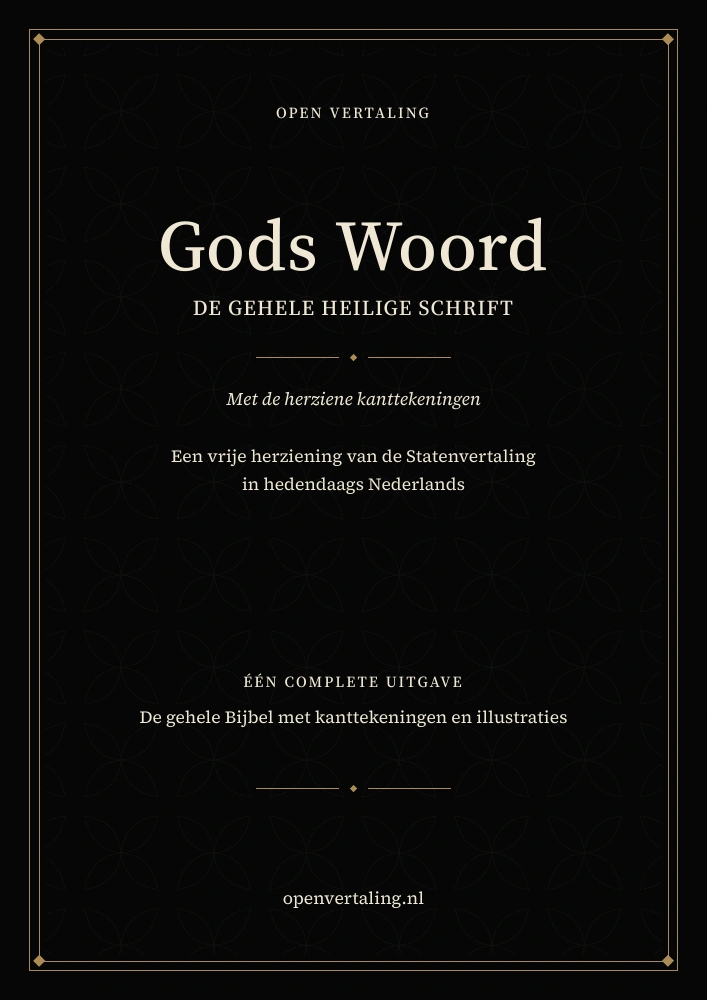
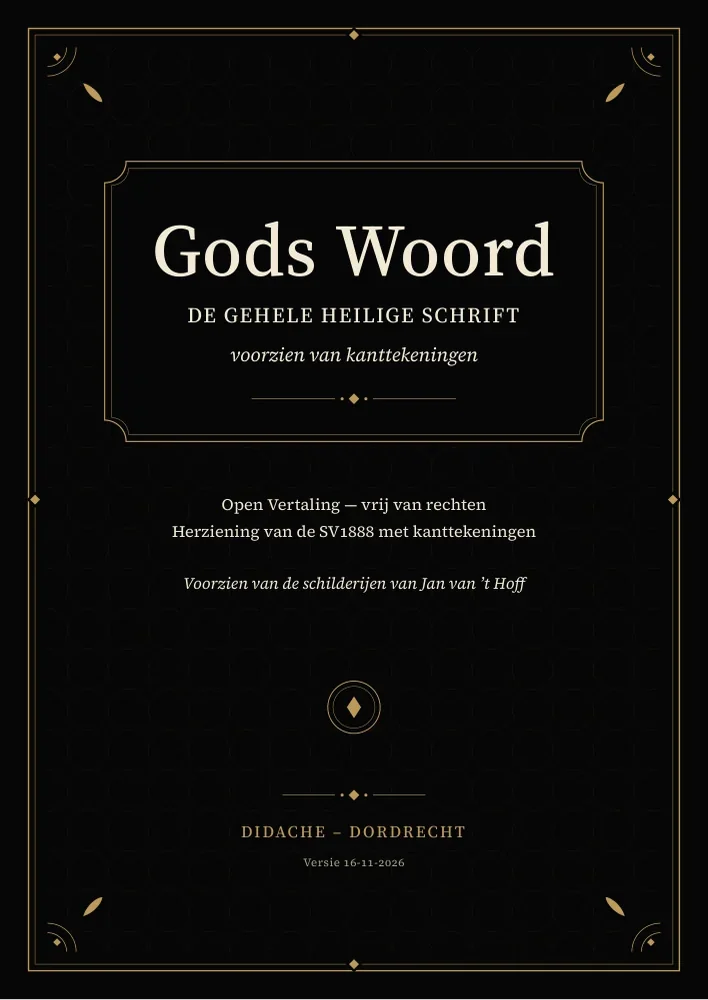
Nieuw voorblad en zwart achterblad voor de uitgaven met kanttekeningen
Voorblad volgens de opzet van de eigenaar: Gods Woord, de gehele Heilige
Schrift, voorzien van kanttekeningen; Open Vertaling - vrij van rechten;
herziening van de SV1888 met kanttekeningen; bij de geillustreerde
uitgave de schilderijen van Jan van 't Hoff; Didache - Dordrecht en
versie 16-11-2026. openvertaling.nl staat er niet meer op.

Nieuw motief: blinddruk van in elkaar grijpende cirkels, een gouden
lijstwerk met hoekkrullen, een cartouche rond de titel en een rond
medaillon. Het achterblad is zwart in dezelfde band en valt altijd op een
even bladzijde. Geldt voor de drie delen en beide A3-uitgaven; de
omslagbeelden op de site zijn uit de nieuwe voorbladen gerenderd.

diff --git a/kanttekeningen.html b/kanttekeningen.html
@@ -20,7 +20,7 @@
     <meta property="og:title" content="De Bijbel met kanttekeningen — Open Vertaling">
     <meta property="og:description" content="De Open Vertaling met de herziene kanttekeningen als PDF in drie delen, gezet met de noten onder de tekst op dezelfde bladzijde.">
     <meta property="og:url" content="https://openvertaling.nl/kanttekeningen.html">
-    <meta property="og:image" content="https://openvertaling.nl/images/kanttekeningen/deel-1.webp?v=20261108-eenband">
+    <meta property="og:image" content="https://openvertaling.nl/images/kanttekeningen/deel-1.webp?v=20261116-voorblad">
     <meta name="twitter:card" content="summary_large_image">
 
     <link rel="stylesheet" href="css/fonts.css">
@@ -38,7 +38,7 @@
         <a class="kt-terug" href="downloads.html">← Alle downloads</a>
 
         <div class="kt-raster">
-            <img class="kt-omslag" id="kt-omslag" src="images/kanttekeningen/deel-1.webp?v=20261108-eenband" alt="Omslag van deel I" width="600" height="900">
+            <img class="kt-omslag" id="kt-omslag" src="images/kanttekeningen/deel-1.webp?v=20261116-voorblad" alt="Omslag van deel I" width="600" height="900">
 
             <div class="kt-tekst">
                 <h1>De Bijbel met kanttekeningen</h1>
@@ -52,21 +52,21 @@
                         <div>
                             <input type="radio" name="deel" id="kt-deel-1" value="1" checked>
                             <label class="kt-kaart" for="kt-deel-1">
-                                <img src="images/kanttekeningen/deel-1.webp?v=20261108-eenband" alt="" width="46" height="69" decoding="async">
+                                <img src="images/kanttekeningen/deel-1.webp?v=20261116-voorblad" alt="" width="46" height="69" decoding="async">
                                 <span><span class="kt-naam">Deel I</span><span class="kt-bereik">Genesis t/m Esther</span></span>
                             </label>
                         </div>
                         <div>
                             <input type="radio" name="deel" id="kt-deel-2" value="2">
                             <label class="kt-kaart" for="kt-deel-2">
-                                <img src="images/kanttekeningen/deel-2.webp?v=20261108-eenband" alt="" width="46" height="69" decoding="async">
+                                <img src="images/kanttekeningen/deel-2.webp?v=20261116-voorblad" alt="" width="46" height="69" decoding="async">
                                 <span><span class="kt-naam">Deel II</span><span class="kt-bereik">Job t/m Maleachi</span></span>
                             </label>
                         </div>
                         <div>
                             <input type="radio" name="deel" id="kt-deel-3" value="3">
                             <label class="kt-kaart" for="kt-deel-3">
-                                <img src="images/kanttekeningen/deel-3.webp?v=20261108-eenband" alt="" width="46" height="69" decoding="async">
+                                <img src="images/kanttekeningen/deel-3.webp?v=20261116-voorblad" alt="" width="46" height="69" decoding="async">
                                 <span><span class="kt-naam">Deel III</span><span class="kt-bereik">Mattheüs t/m Openbaring, met de apocriefe boeken</span></span>
                             </label>
                         </div>
@@ -159,7 +159,7 @@
         var gegevens = verslag[deel] || {};
         var paginas = {};
         (gegevens.boeken || []).forEach(function (b) { paginas[b.naam] = b.pagina; });
-        document.getElementById('kt-omslag').src = 'images/kanttekeningen/deel-' + deel + '.webp?v=20261108-eenband';
+        document.getElementById('kt-omslag').src = 'images/kanttekeningen/deel-' + deel + '.webp?v=20261116-voorblad';
         document.getElementById('kt-omslag').alt = 'Omslag van deel ' + ROMEINS[deel];
         document.getElementById('kt-download').href = bestand(deel);
         document.getElementById('kt-open').href = bestand(deel);

diff --git a/eenband.html b/eenband.html
@@ -9,7 +9,7 @@
 <link rel="stylesheet" href="css/fonts.css"><link rel="stylesheet" href="css/style.css"><link rel="stylesheet" href="css/ontwerp.css?v=20261108-eenband-2"><link rel="stylesheet" href="css/kanttekeningen.css">
 </head><body><nav id="topnav"></nav><script src="js/topnav.js"></script>
 <main class="kt"><a class="kt-terug" href="downloads.html">← Alle downloads</a>
-<div class="kt-raster"><img class="kt-omslag" src="images/kanttekeningen/eenband-a3.webp?v=20261108" alt="Zwart voorblad Gods Woord, één complete uitgave" width="707" height="1000">
+<div class="kt-raster"><img class="kt-omslag" src="images/kanttekeningen/eenband-a3.webp?v=20261116-voorblad" alt="Zwart voorblad Gods Woord, één complete uitgave" width="707" height="1000">
 <div class="kt-tekst"><h1>Gods Woord, compleet in één band</h1><p class="kt-sub">Met kanttekeningen en illustraties van Jan van ’t Hoff</p>
 <p class="kt-oms">Alle 82 openbare Bijbelboeken, inclusief de apocriefe boeken, in één PDF. Met de herziene kanttekeningen onderaan de pagina en alle 126 werken uit de vastgelegde Gospelimages-catalogus van Jan van ’t Hoff.</p>
 <p>Bladformaat <strong>A3 · 297 × 420 mm</strong>, één formaat groter dan de driedelige A4-uitgave. De Bijbeltekst staat in twee kolommen en de kanttekeningen daaronder in drie. Gemarkeerde Godscitaten staan rood en cursief; de Godsnaam is HEERE.</p>

diff --git a/index.html b/index.html
@@ -128,7 +128,7 @@
          passage uit data/johannes/1.json; zie js/startscherm.js. -->
     <main id="ov-start" class="ka-start" aria-labelledby="ka-start-titel">
         <section class="ka-nieuws ka-uitgave-nieuws" aria-labelledby="ka-uitgave-titel">
-            <a class="ka-uitgave-cover" href="kanttekeningen.html?v=20261108-voorblad" aria-label="Bekijk Gods Woord met titelblad"><img src="images/kanttekeningen/deel-1.webp?v=20261108-voorblad" alt="Zwart titelblad Gods Woord met gouden rand" width="130" height="184"></a>
+            <a class="ka-uitgave-cover" href="kanttekeningen.html?v=20261108-voorblad" aria-label="Bekijk Gods Woord met titelblad"><img src="images/kanttekeningen/deel-1.webp?v=20261116-voorblad" alt="Zwart titelblad Gods Woord met gouden rand" width="130" height="184"></a>
             <div class="ka-uitgave-bericht">
                 <p class="ka-eyebrow">Gods Woord · Lezen en delen</p>
                 <h2 id="ka-uitgave-titel">Een uitgave om te bewaren, een traktaat om te delen</h2>

diff --git a/scripts/build_kanttekeningen_pdf.py b/scripts/build_kanttekeningen_pdf.py
@@ -920,74 +920,166 @@ def zet_boek(b, boek, namen, perikopen, stats, hoofdstukfilter=None, recto=True)
 
 # ---------------------------------------------------------------- voorwerk
 
+# Uitgever en versie op het voorblad van alle uitgaven met kanttekeningen.
+UITGEVER = 'Didache – Dordrecht'
+VERSIE = '16-11-2026'
+GOUD = (0.74, 0.60, 0.35)
+OMSLAG_ZWART = (0.025, 0.025, 0.025)
+A4 = (595.28, 841.89)
+
+
+def _kleur(rgb, op='rg'):
+    return ' '.join(f'{c:.3f}' for c in rgb) + f' {op}'
+
+
+def _cirkel(cx, cy, r):
+    k = 0.5523 * r
+    return (f'{cx + r:.2f} {cy:.2f} m '
+            f'{cx + r:.2f} {cy + k:.2f} {cx + k:.2f} {cy + r:.2f} {cx:.2f} {cy + r:.2f} c '
+            f'{cx - k:.2f} {cy + r:.2f} {cx - r:.2f} {cy + k:.2f} {cx - r:.2f} {cy:.2f} c '
+            f'{cx - r:.2f} {cy - k:.2f} {cx - k:.2f} {cy - r:.2f} {cx:.2f} {cy - r:.2f} c '
+            f'{cx + k:.2f} {cy - r:.2f} {cx + r:.2f} {cy - k:.2f} {cx + r:.2f} {cy:.2f} c ')
+
+
+def _paneel(x0, y0, x1, y1, r):
+    """Rechthoek met holle hoeken, zoals een cartouche op een oude boekband."""
+    k = 0.5523 * r
+    return (f'{x0 + r:.2f} {y0:.2f} m {x1 - r:.2f} {y0:.2f} l '
+            f'{x1 - r:.2f} {y0 + k:.2f} {x1 - k:.2f} {y0 + r:.2f} {x1:.2f} {y0 + r:.2f} c '
+            f'{x1:.2f} {y1 - r:.2f} l '
+            f'{x1 - k:.2f} {y1 - r:.2f} {x1 - r:.2f} {y1 - k:.2f} {x1 - r:.2f} {y1:.2f} c '
+            f'{x0 + r:.2f} {y1:.2f} l '
+            f'{x0 + r:.2f} {y1 - k:.2f} {x0 + k:.2f} {y1 - r:.2f} {x0:.2f} {y1 - r:.2f} c '
+            f'{x0:.2f} {y0 + r:.2f} l '
+            f'{x0 + k:.2f} {y0 + r:.2f} {x0 + r:.2f} {y0 + k:.2f} {x0 + r:.2f} {y0:.2f} c h ')
+
+
+def _ruit(cx, cy, w, h):
+    return f'{cx:.2f} {cy + h:.2f} m {cx + w:.2f} {cy:.2f} l {cx:.2f} {cy - h:.2f} l {cx - w:.2f} {cy:.2f} l h '
+
+
+def _hoekornament(x, y, sx, sy):
+    """Een gouden krul met blad in een hoek; sx en sy geven de richting naar binnen."""
+    d = []
+    # Twee kwartbogen die in de hoek samenkomen, met een blaadje en een ruitje.
+    for r in (16, 24):
+        k = 0.5523 * r
+        d.append(f'{x + sx * r:.2f} {y:.2f} m '
+                 f'{x + sx * r:.2f} {y + sy * k:.2f} {x + sx * k:.2f} {y + sy * r:.2f} {x:.2f} {y + sy * r:.2f} c S ')
+    d.append(f'{x + sx * 30:.2f} {y + sy * 30:.2f} m '
+             f'{x + sx * 40:.2f} {y + sy * 33:.2f} {x + sx * 46:.2f} {y + sy * 42:.2f} {x + sx * 46:.2f} {y + sy * 46:.2f} c '
+             f'{x + sx * 42:.2f} {y + sy * 46:.2f} {x + sx * 33:.2f} {y + sy * 40:.2f} {x + sx * 30:.2f} {y + sy * 30:.2f} c f ')
+    d.append(_ruit(x + sx * 8, y + sy * 8, 3.2, 3.2) + 'f ')
+    return ''.join(d)
+
+
+def _boekband(uit, b, h):
+    """Zwart vlak met blinddruk van in elkaar grijpende cirkels en een gouden lijstwerk."""
+    uit.append(f'q {_kleur(OMSLAG_ZWART)} 0 0 {b:.2f} {h:.2f} re f Q\n')
+    # Blinddruk: overlappende cirkels geven een rustig patroon van vierpassen.
+    stap, straal = 34.0, 17.0
+    uit.append(f'q 40 40 {b - 80:.2f} {h - 80:.2f} re W n {_kleur((0.085, 0.078, 0.063), "RG")} 0.4 w\n')
+    y = 40.0
+    while y < h - 20:
+        x = 40.0
+        rij = []
+        while x < b - 20:
+            rij.append(_cirkel(x, y, straal))
+            x += stap
+        uit.append(''.join(rij) + 'S\n')
+        y += stap
+    uit.append('Q\n')
+    goud = f'{_kleur(GOUD, "RG")} {_kleur(GOUD)}'
+    uit.append(f'q {goud} 1.2 w 24 24 {b - 48:.2f} {h - 48:.2f} re S '
+               f'0.4 w 29.5 29.5 {b - 59:.2f} {h - 59:.2f} re S 0.6 w\n')
+    for x, y, sx, sy in ((40, 40, 1, 1), (b - 40, 40, -1, 1), (40, h - 40, 1, -1), (b - 40, h - 40, -1, -1)):
+        uit.append(_hoekornament(x, y, sx, sy) + '\n')
+    # Kleine ruiten midden op de zijden van het lijstwerk.
+    for x, y in ((b / 2, 29.5), (b / 2, h - 29.5), (29.5, h / 2), (b - 29.5, h / 2)):
+        uit.append(f'{_kleur(OMSLAG_ZWART)} {_ruit(x, y, 7, 7)}f {_kleur(GOUD)} {_ruit(x, y, 4.2, 4.2)}f\n')
+    uit.append('Q\n')
+
+
+def _sierlijn(uit, midden, y, breedte=86):
+    """Gouden haarlijnen met een ruit en twee stippen in het midden."""
+    goud = f'{_kleur(GOUD, "RG")} {_kleur(GOUD)}'
+    uit.append(f'q {goud} 0.5 w {midden - breedte:.2f} {y:.2f} m {midden - 16:.2f} {y:.2f} l S '
+               f'{midden + 16:.2f} {y:.2f} m {midden + breedte:.2f} {y:.2f} l S '
+               f'{_ruit(midden, y, 4.5, 4.5)}f {_cirkel(midden - 10, y, 1.3)}f {_cirkel(midden + 10, y, 1.3)}f Q\n')
+
+
+def _medaillon(uit, x, y, r):
+    """Rond gouden embleem met een staande ruit, op voor- en achterblad."""
+    goud = f'{_kleur(GOUD, "RG")} {_kleur(GOUD)}'
+    uit.append(f'q {_kleur(OMSLAG_ZWART)} {_cirkel(x, y, r)}f {goud} 0.8 w '
+               f'{_cirkel(x, y, r)}S 0.35 w {_cirkel(x, y, r * 0.8)}S '
+               f'{_ruit(x, y, r * 0.27, r * 0.42)}f Q\n')
+
+
 def titelpagina(b, deel):
-    """Rustig titelblad, optisch gecentreerd op de pagina, voor alle drie delen."""
-    from copy import copy
-    st = {naam: copy(stijl) for naam, stijl in b.st.items()}
-    licht = (0.94, 0.91, 0.83)
-    for stijl in st.values():
-        stijl.kleur = licht
+    """Voorblad: zwarte boekband met gouden lijstwerk, op A4-maat (de A3-uitgave schaalt mee)."""
     zetter, pdf = b.zetter, b.pdf
-    uit = [f'q 0.025 0.025 0.025 rg 0 0 {BREEDTE} {HOOGTE} re f Q\n']
-    # Een vectorpatroon als blinddruk: zacht gebogen bladeren in een ruitrooster.
-    uit.append(f'q 38 38 {BREEDTE - 76} {HOOGTE - 76} re W n '
-               '0.075 0.070 0.057 RG 0.45 w\n')
-    for cy in range(46, int(HOOGTE), 78):
-        for cx in range(24, int(BREEDTE) + 78, 78):
-            for dx, dy in ((1, 1), (-1, 1), (1, -1), (-1, -1)):
-                uit.append(f'{cx} {cy} m '
-                           f'{cx + dx * 23} {cy + dy * 2} '
-                           f'{cx + dx * 28} {cy + dy * 19} '
-                           f'{cx + dx * 31} {cy + dy * 31} c '
-                           f'{cx + dx * 10} {cy + dy * 28} '
-                           f'{cx + dx * 2} {cy + dy * 16} '
-                           f'{cx} {cy} c S\n')
-    uit.append('Q\n')
-    # Dubbele goudlijn met kleine hoekruiten, ruim binnen de snijrand.
-    uit.append(f'q 0.68 0.55 0.32 RG 0.68 0.55 0.32 rg '
-               f'1.1 w 25 25 {BREEDTE - 50} {HOOGTE - 50} re S '
-               f'0.35 w 33 33 {BREEDTE - 66} {HOOGTE - 66} re S\n')
-    for x, y in ((33, 33), (BREEDTE - 33, 33),
-                 (33, HOOGTE - 33), (BREEDTE - 33, HOOGTE - 33)):
-        uit.append(f'{x} {y + 5} m {x + 5} {y} l '
-                   f'{x} {y - 5} l {x - 5} {y} l h f\n')
-    uit.append('Q\n')
+    uit = []
+    _boekband(uit, BREEDTE, HOOGTE)
     midden = BREEDTE / 2
-    kop = st['t_groot'].letter
-    klein = Stijl(kop, 13, spatie=1.8, afbreken=False, kleur=licht)
-    titel = Stijl(kop, 60, spatie=0.6, afbreken=False, kleur=licht)
-    ondertitel = Stijl(kop, 18, spatie=1.0, afbreken=False, kleur=licht)
+    licht = (0.95, 0.92, 0.84)
+    kop = b.st['t_groot'].letter
+    tekst_letter = b.st['t_tekst'].letter
+    cursief_letter = b.st['t_cursief'].letter
+    titel = Stijl(kop, 62, spatie=0.6, afbreken=False, kleur=licht)
+    ondertitel = Stijl(kop, 18, spatie=1.4, afbreken=False, kleur=licht)
+    cursief = Stijl(cursief_letter, 16, afbreken=False, kleur=licht)
+    tekst = Stijl(tekst_letter, 13.5, kenmerken=(('onum', True),), afbreken=False, kleur=licht)
+    tekst_cursief = Stijl(cursief_letter, 13.5, afbreken=False, kleur=licht)
+    klein_goud = Stijl(kop, 12.5, spatie=2.0, afbreken=False, kleur=GOUD)
+    uitgever = Stijl(kop, 14, spatie=1.8, afbreken=False, kleur=GOUD)
+    versie = Stijl(tekst_letter, 9.5, kenmerken=(('onum', True),), spatie=0.4, afbreken=False,
+                   kleur=(0.66, 0.62, 0.54))
 
-    st['t_tekst'] = Stijl(st['t_tekst'].letter, 14.5, kleur=licht, afbreken=False)
-    st['t_cursief'] = Stijl(st['t_cursief'].letter, 15, kleur=licht, afbreken=False)
+    # Cartouche rond de titel; het zwart dekt de blinddruk zodat de titel rustig staat.
+    x0, x1, y0, y1 = 88.0, BREEDTE - 88.0, HOOGTE - 372.0, HOOGTE - 136.0
+    goud = f'{_kleur(GOUD, "RG")} {_kleur(GOUD)}'
+    uit.append(f'q {_kleur(OMSLAG_ZWART)} {_paneel(x0, y0, x1, y1, 18)}f '
+               f'{goud} 1.0 w {_paneel(x0, y0, x1, y1, 18)}S '
+               f'0.35 w {_paneel(x0 + 6, y0 + 6, x1 - 6, y1 - 6, 14)}S Q\n')
 
-    def regel(tekst, stijl, y):
-        r = zetter.los([(tekst, stijl)])
+    def regel(t, stijl, y):
+        r = zetter.los([(t, stijl)])
         teken_regel(r, midden - r.breedte / 2, y, uit)
 
-    def ornament(y):
-        # Subtiele gouden haarlijnen en een kleine ruit op de zwarte omslag.
-        uit.append(f'q 0.68 0.55 0.32 RG 0.68 0.55 0.32 rg 0.45 w '
-                   f'{midden - 82} {y} m {midden - 12} {y} l S '
-                   f'{midden + 12} {y} m {midden + 82} {y} l S '
-                   f'{midden} {y + 3} m {midden + 3} {y} l '
-                   f'{midden} {y - 3} l {midden - 3} {y} l h f Q\n')
+    regel('Gods Woord', titel, HOOGTE - 232)
+    regel('DE GEHELE HEILIGE SCHRIFT', ondertitel, HOOGTE - 272)
+    regel('voorzien van kanttekeningen', cursief, HOOGTE - 304)
+    _sierlijn(uit, midden, HOOGTE - 336)
 
-    regel('OPEN VERTALING', klein, HOOGTE - 100)
-    regel('Gods Woord', titel, HOOGTE - 228)
-    regel('DE GEHELE HEILIGE SCHRIFT', ondertitel, HOOGTE - 266)
-    ornament(HOOGTE - 301)
-    regel('Met de herziene kanttekeningen', st['t_cursief'], HOOGTE - 341)
-    regel('Een vrije herziening van de Statenvertaling', st['t_tekst'], HOOGTE - 389)
-    regel('in hedendaags Nederlands', st['t_tekst'], HOOGTE - 413)
+    regel('Open Vertaling — vrij van rechten', tekst, HOOGTE - 430)
+    regel('Herziening van de SV1888 met kanttekeningen', tekst, HOOGTE - 452)
+    if deel == 0:
+        regel('Voorzien van de schilderijen van Jan van ’t Hoff', tekst_cursief, HOOGTE - 496)
+    else:
+        regel(f'DEEL {romeins(deel)}', klein_goud, HOOGTE - 506)
+        # Deel III heeft een lange titel; geef de apocriefe boeken een eigen regel.
+        titelregels = DELEN[deel]['titel'].replace(', met de ', '\nmet de ').split('\n')
+        for i, t in enumerate(titelregels):
+            regel(t, tekst_cursief, HOOGTE - 530 - i * 20)
 
-    regel('ÉÉN COMPLETE UITGAVE' if deel == 0 else f'DEEL {romeins(deel)}', klein, 263)
-    # Deel III heeft een lange titel; geef de apocriefe boeken een eigen regel.
-    titelregels = DELEN[deel]['titel'].replace(', met de ', '\nmet de ').split('\n')
-    for i, tekst in enumerate(titelregels):
-        regel(tekst, st['t_tekst'], 233 - i * 24)
-    ornament(178)
-    regel('openvertaling.nl', st['t_tekst'], 80)
+    _medaillon(uit, midden, 246, 22)
+    _sierlijn(uit, midden, 172, 60)
+    regel(UITGEVER.upper(), uitgever, 136)
+    regel(f'Versie {VERSIE}', versie, 112)
+    pdf.pagina(''.join(uit))
+
+
+def achterblad(b):
+    """Zwart achterblad in dezelfde band, altijd op een even (linker) bladzijde."""
+    pdf = b.pdf
+    if len(pdf.paginas) % 2 == 0:
+        pdf.pagina('')
+    sx, sy = BREEDTE / A4[0], HOOGTE / A4[1]
+    uit = [f'q {sx:.6f} 0 0 {sy:.6f} 0 0 cm\n']
+    _boekband(uit, *A4)
+    _medaillon(uit, A4[0] / 2, A4[1] / 2, 26)
+    uit.append('Q\n')
     pdf.pagina(''.join(uit))
 
 
@@ -1180,6 +1272,7 @@ def bouw_deel(deel, uit_map, datum, proef=None):
             regels.append((namen[boek], pagina))
         inhoud.append((groep, regels))
     inhoudsopgave(b, deel, inhoud, 2)
+    achterblad(b)
 
     uit_map.mkdir(parents=True, exist_ok=True)
     pad = uit_map / UITVOERNAAM.format(deel)
